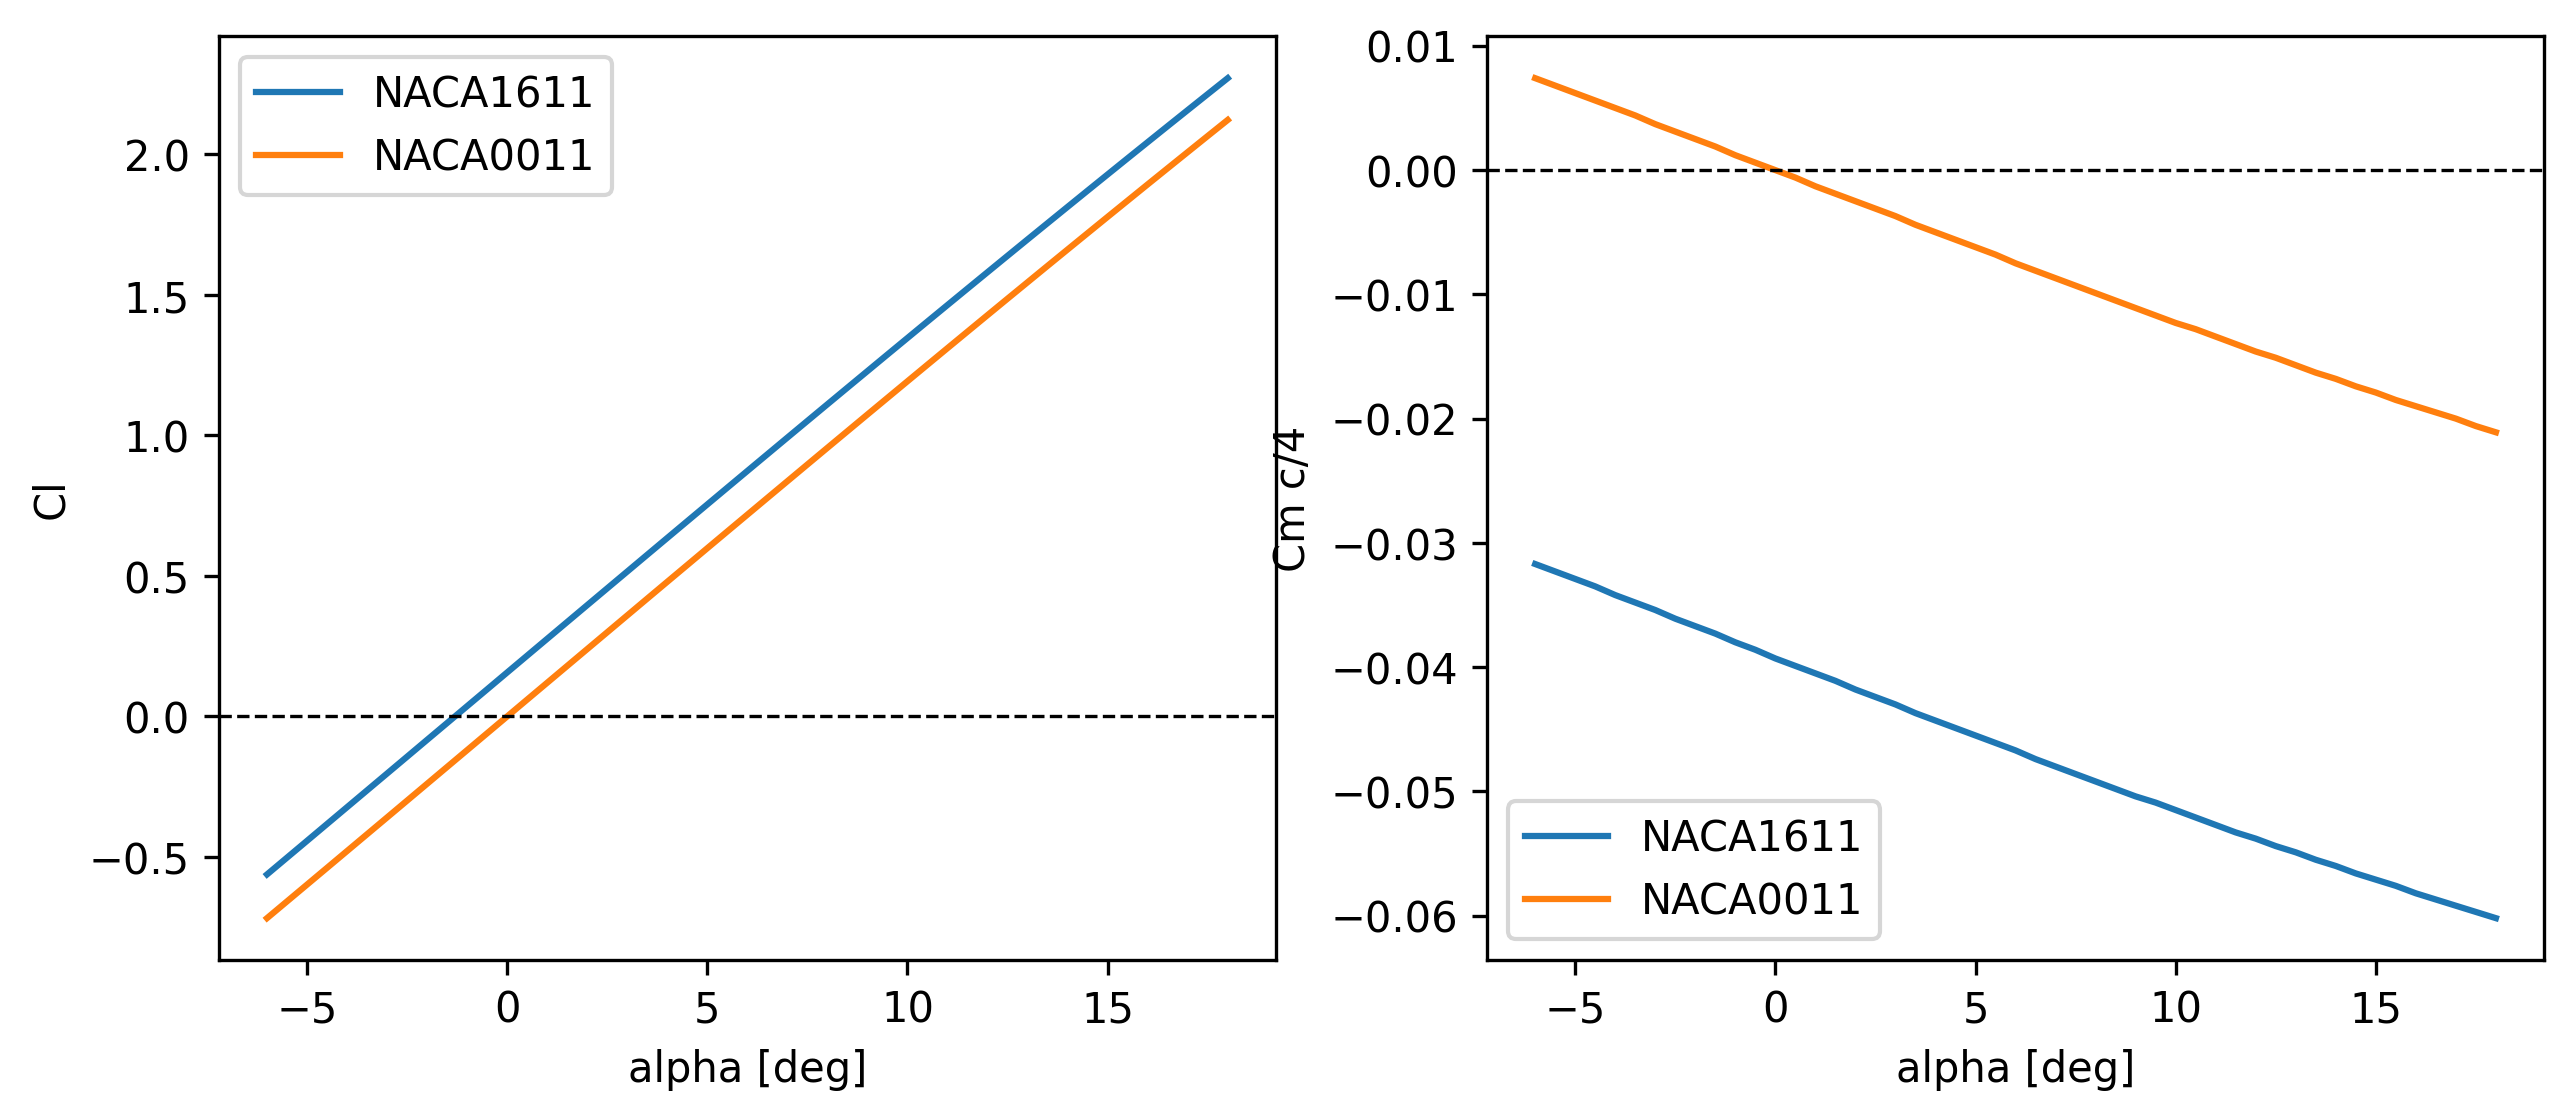
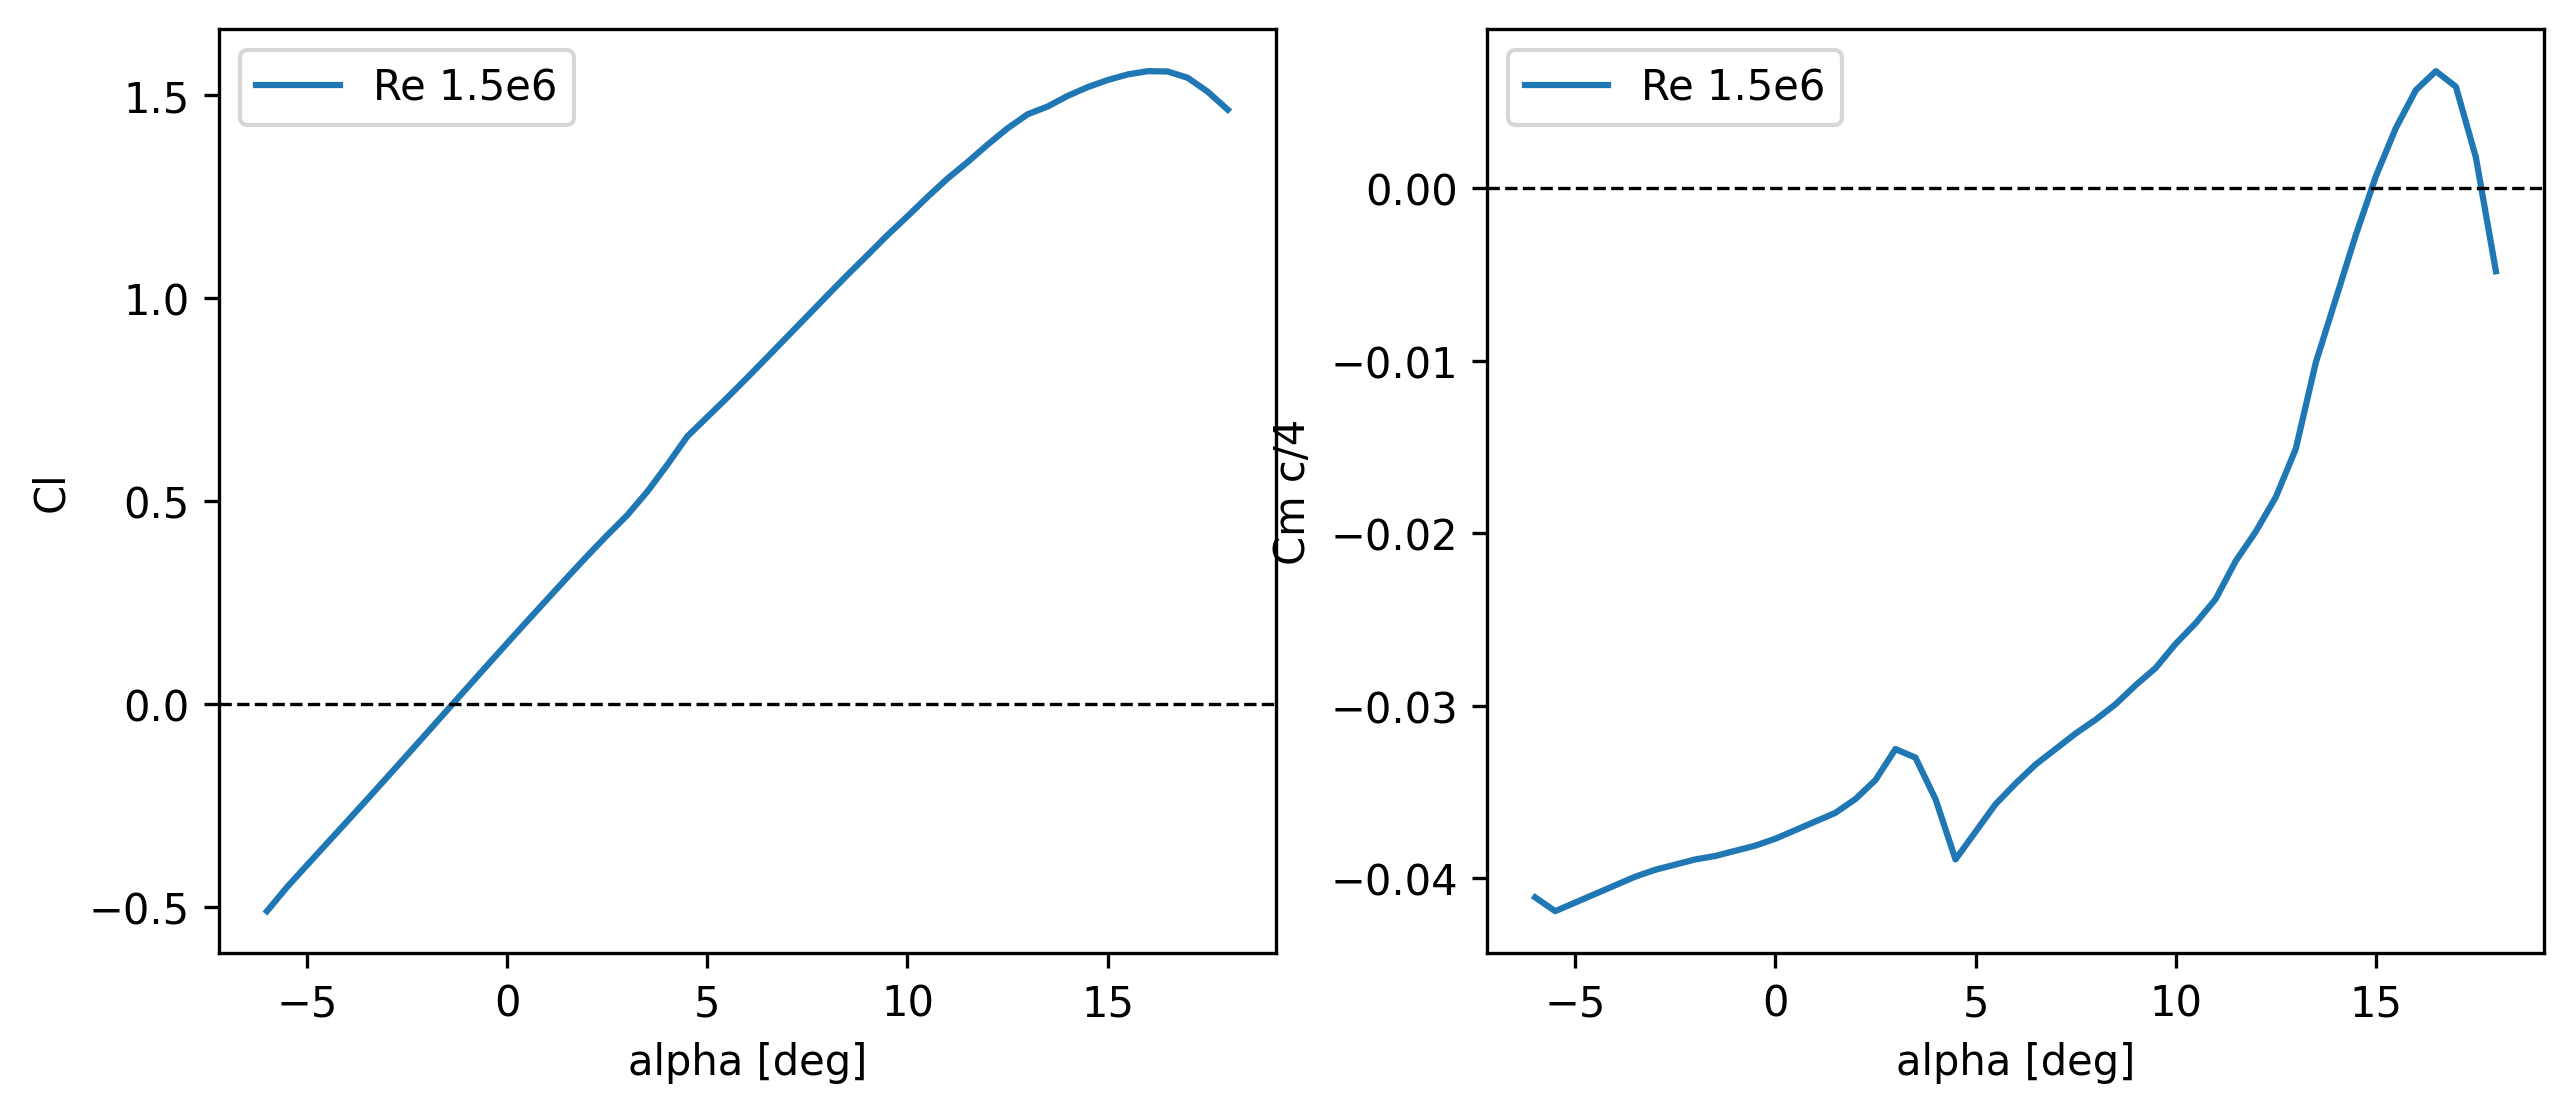
visc

diff --git a/post_plot_pol.py b/post_plot_pol.py
@@ -5,31 +5,41 @@ import os
 
 #inputs = ["pol_1611_inv.txt", "pol_1622_inv.txt"]
 #inputs = ["pol_1611_N10_inv.txt", "pol_1611_N50_inv.txt", "pol_1611_N250_inv.txt"]
-inputs = ["pol_1611_inv.txt", "pol_0011_inv.txt"]
+#inputs = ["pol_1611_inv.txt", "pol_0011_inv.txt"]
+inputs = ["pol_1611_Re1.5e6.txt", "pol_1611_inv.txt", "pol_1622_inv.txt"]
 
 #labels_to_use = ["NACA1611", "NACA1622"]
 #labels_to_use = ["N = 10", "N = 50", "N = 250"]
-labels_to_use = ["NACA1611", "NACA0011"]
+#labels_to_use = ["NACA1611", "NACA0011"]
+labels_to_use = ["NACA 1611 Visc", "NACA 1611 Invisc", "NACA 1622 Invisc"]
 
-path = os.path.join(os.path.dirname(os.path.abspath(__file__)), "Inviscid_flows")
+path_i = os.path.join(os.path.dirname(os.path.abspath(__file__)), "Inviscid_flows")
+path_v = os.path.join(os.path.dirname(os.path.abspath(__file__)), "Viscous_flows")
 figures_dir = os.path.join(os.path.dirname(os.path.abspath(__file__)), "figures")
 os.makedirs(figures_dir, exist_ok=True)
 
-save_path = os.path.join(figures_dir, "3.1.5_polars.png")
+save_path = os.path.join(figures_dir, "3.2.3_polars.png")         
+save_path_drag = os.path.join(figures_dir, "3.2.3_drag_polar.png")  
 
 def read_polar(file_path):
     # skip the XFOIL header, columns: alpha, CL, CD, CDp, CM, Top_Xtr, Bot_Xtr
     data = np.loadtxt(file_path, skiprows=12)
-    return data[:, 0], data[:, 1], data[:, 4]
+    data= data[np.argsort(data[:,0])]
+    return data[:, 0], data[:, 1], data[:, 2], data[:, 4]
 
 fig, (ax1, ax2) = plt.subplots(1, 2, figsize=(10, 4))
+fig2, ax3 = plt.subplots(figsize=(5, 4))  
 
 for i, files in enumerate(inputs):
-    file_path = os.path.join(path, files)
-    alpha, cl, cm = read_polar(file_path)
+    if files.endswith("inv.txt"):
+        file_path = os.path.join(path_i, files)
+    else:
+        file_path = os.path.join(path_v, files)
+    alpha, cl, cd, cm = read_polar(file_path)
 
     ax1.plot(alpha, cl, markersize=3, color=f'C{i}', label=labels_to_use[i])
     ax2.plot(alpha, cm, markersize=3, color=f'C{i}', label=labels_to_use[i])
+    ax3.plot(cd, cl, color=f'C{i}', label=labels_to_use[i])
 
 ax1.set_xlabel("alpha [deg]")
 ax1.set_ylabel("Cl")
@@ -41,5 +51,11 @@ ax2.set_ylabel("Cm c/4")
 ax2.axhline(0, color='black', linewidth=0.8, linestyle='--')
 ax2.legend()
 
-plt.savefig(save_path, dpi=300, bbox_inches='tight')
+ax3.set_xlabel("Cd")                                       
+ax3.set_ylabel("Cl")                                        
+ax3.axhline(0, color='black', linewidth=0.8, linestyle='--')  
+ax3.legend()                                                
+
+fig.savefig(save_path, dpi=300, bbox_inches='tight')        
+fig2.savefig(save_path_drag, dpi=300, bbox_inches='tight')  
 plt.show()
